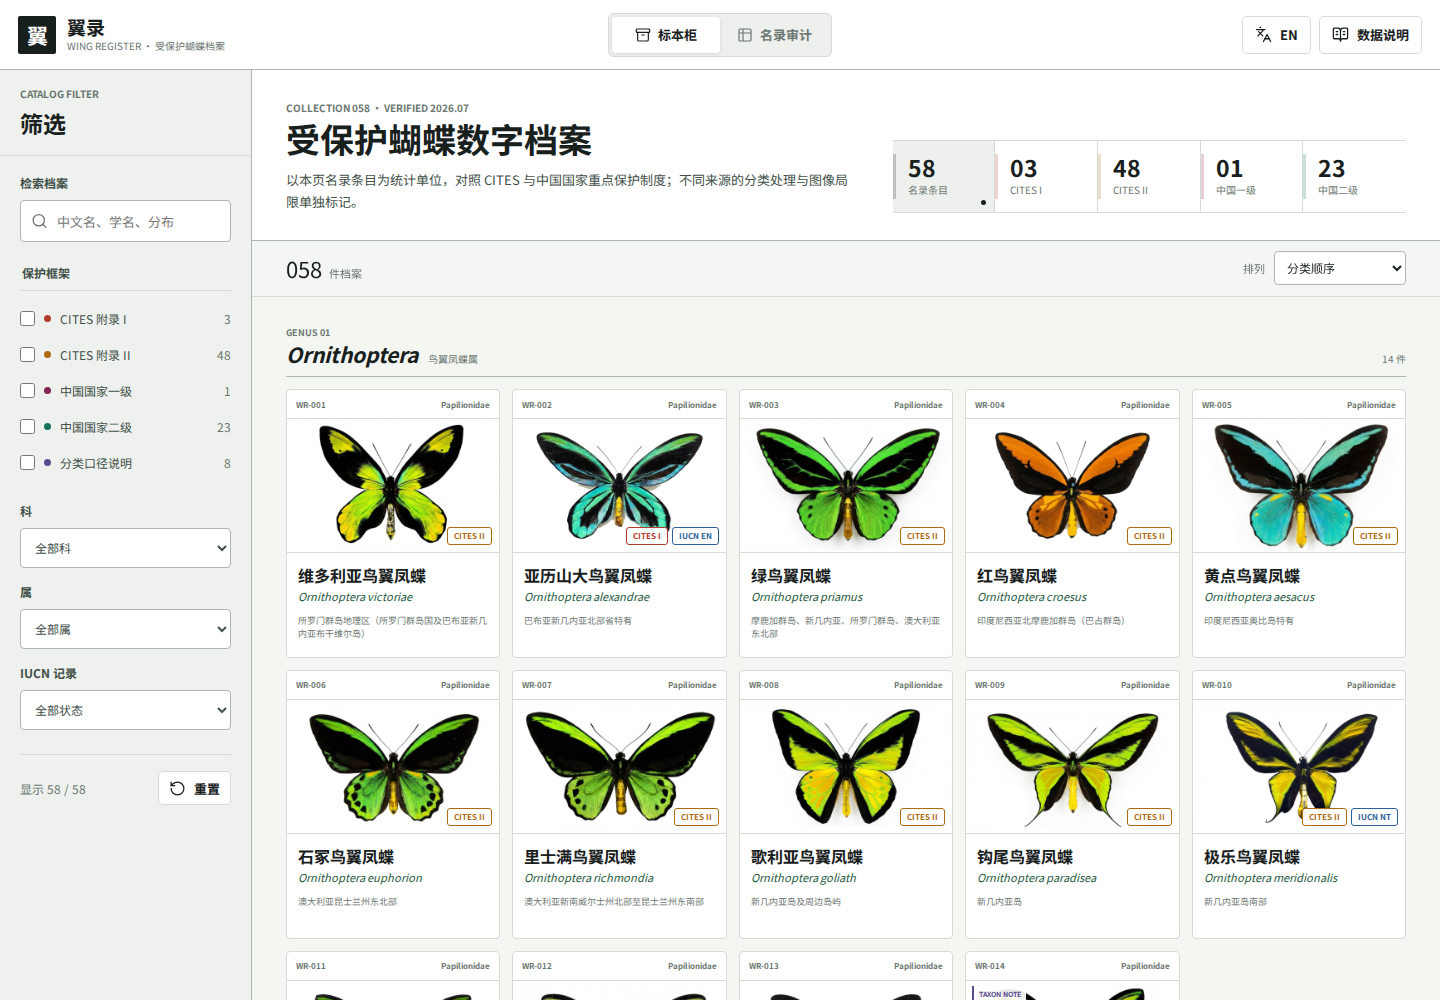
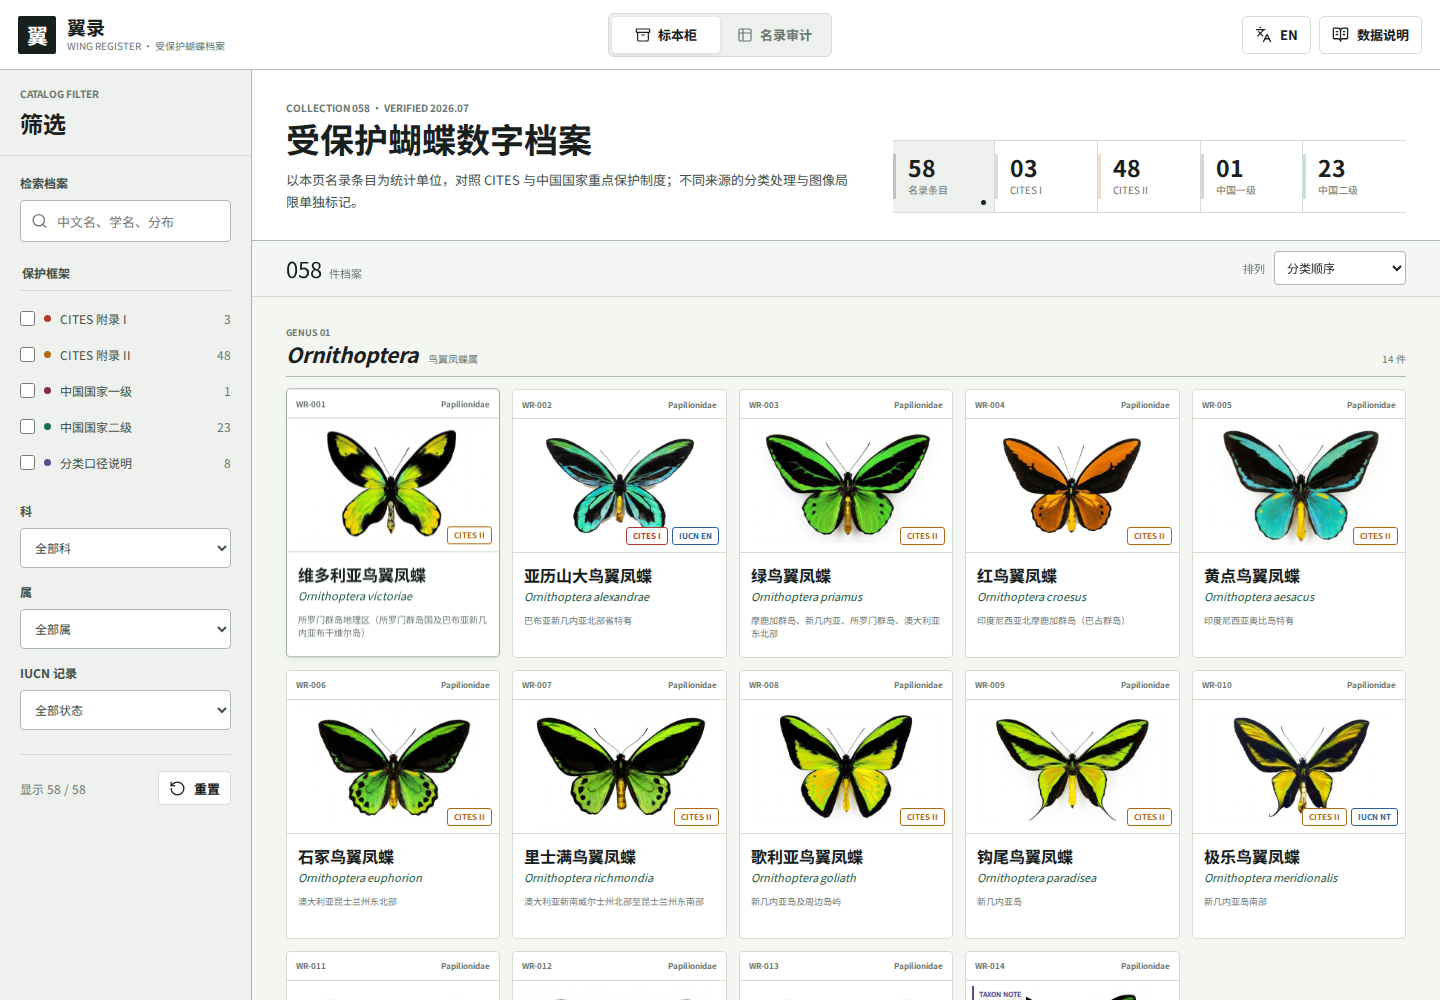
fix: keep specimen previews fully visible

diff --git a/styles.css b/styles.css
@@ -744,6 +744,7 @@ main {
   position: relative;
   aspect-ratio: 16 / 10;
   overflow: hidden;
+  padding: 7px;
   background: #fff;
 }
 
@@ -752,11 +753,6 @@ main {
   height: 100%;
   display: block;
   object-fit: contain;
-  transition: transform 220ms ease;
-}
-
-.specimen-drawer:hover .specimen-stage img {
-  transform: scale(1.035);
 }
 
 .protection-tabs,